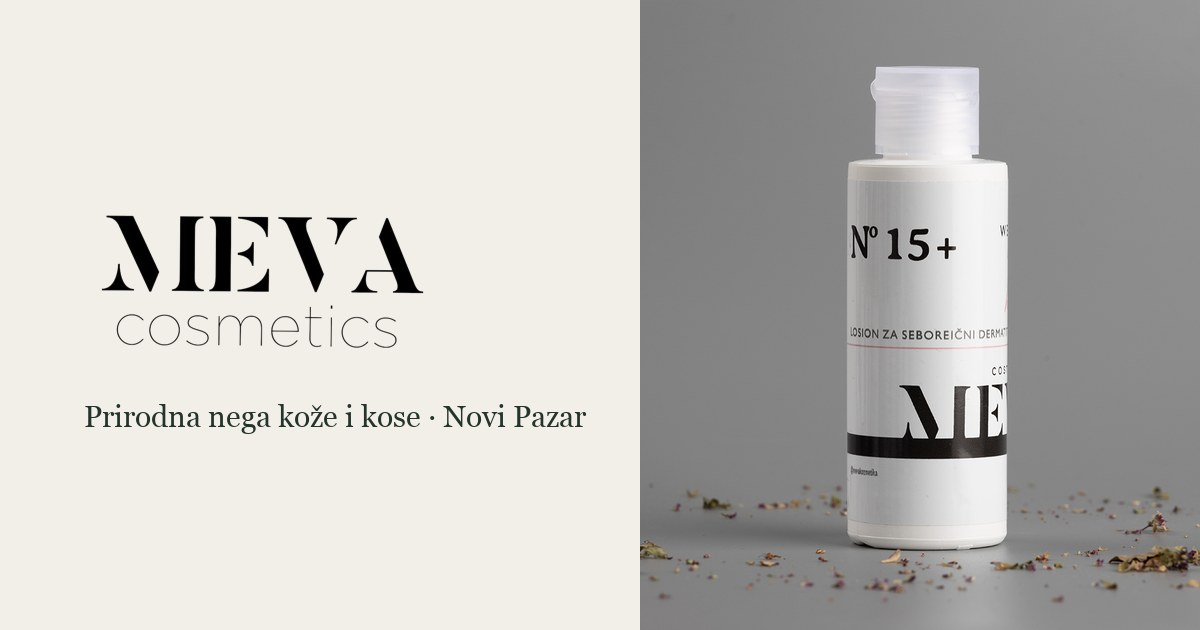
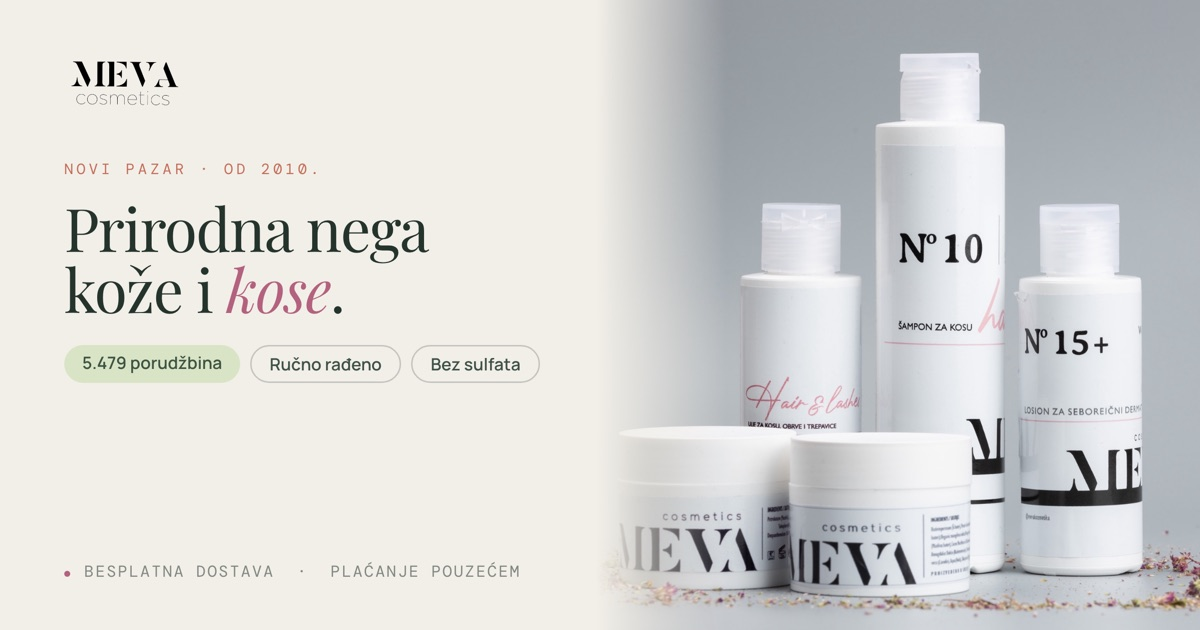
feat(share): Make the card sell the shop
The picture behind a shared link was the wordmark beside a single bottle,
cropped through its own label. It said nothing a stranger would act on.

The card now carries what the shop has to say in the two seconds someone
looks at it: the wordmark, where it is made and since when, the whole set
photographed together, the number of orders behind it, and the two things
people ask before buying -- free delivery and paying the courier. It is
composed in HTML and rendered at twice the size, so the type stays crisp;
tools/og rebuilds it.

diff --git a/tools/og/card.html b/tools/og/card.html
@@ -1,0 +1,50 @@
+<!DOCTYPE html>
+<meta charset="utf-8">
+<link rel="preconnect" href="https://fonts.gstatic.com" crossorigin>
+<link href="https://fonts.googleapis.com/css2?family=Playfair+Display:ital,wght@0,400;0,500;1,400&family=Manrope:wght@400;500;600;700&family=DM+Mono:wght@400;500&display=swap" rel="stylesheet">
+<style>
+  * { margin: 0; padding: 0; box-sizing: border-box }
+  body { width: 1200px; height: 630px; overflow: hidden; background: #f2efe8;
+         font-family: Manrope, sans-serif; color: #24342c; -webkit-font-smoothing: antialiased }
+  .card { display: flex; width: 1200px; height: 630px }
+
+  .left { width: 596px; padding: 56px 48px 48px 64px; display: flex; flex-direction: column; justify-content: space-between }
+  .logo { height: 58px; width: auto }
+  .kicker { font-family: 'DM Mono', monospace; font-size: 15px; letter-spacing: 0.22em;
+            text-transform: uppercase; color: #c56d59; margin-top: 40px }
+  h1 { font-family: 'Playfair Display', serif; font-weight: 400; font-size: 60px; line-height: 1.02;
+       letter-spacing: -0.02em; margin-top: 18px }
+  h1 em { font-style: italic; color: #b3617e }
+  .proof { display: flex; gap: 10px; flex-wrap: wrap; margin-top: 26px }
+  .chip { border-radius: 999px; padding: 9px 18px; font-size: 17px; font-weight: 600; line-height: 1 }
+  .chip.sage { background: #d9e4c6; color: #3d5442 }
+  .chip.line { border: 1.5px solid rgba(36,52,44,.22); color: #3f5248 }
+  .foot { display: flex; align-items: baseline; gap: 14px; font-family: 'DM Mono', monospace;
+          font-size: 16px; letter-spacing: 0.1em; text-transform: uppercase; color: rgba(36,52,44,.55) }
+  .dot { width: 6px; height: 6px; border-radius: 99px; background: #b3617e; display: inline-block }
+
+  .right { width: 604px; position: relative; overflow: hidden; background: #e7e6e4 }
+  .right img { position: absolute; top: 50%; left: 50%; width: 110%; height: auto; transform: translate(-50%, -50%) }
+  /* The photograph is cool grey; a soft wash joins it to the cream panel. */
+  .seam { position: absolute; inset: 0 auto 0 0; width: 130px;
+          background: linear-gradient(90deg, #f2efe8, rgba(242,239,232,0)) }
+</style>
+<div class="card">
+  <div class="left">
+    <div>
+      <img class="logo" src="logo.png" alt="Meva Cosmetics">
+      <p class="kicker">Novi Pazar · od 2010.</p>
+      <h1>Prirodna nega<br>kože i <em>kose</em>.</h1>
+      <div class="proof">
+        <span class="chip sage">5.479 porudžbina</span>
+        <span class="chip line">Ručno rađeno</span>
+        <span class="chip line">Bez sulfata</span>
+      </div>
+    </div>
+    <p class="foot"><span class="dot"></span> Besplatna dostava &nbsp;·&nbsp; Plaćanje pouzećem</p>
+  </div>
+  <div class="right">
+    <img src="set.jpg" alt="">
+    <div class="seam"></div>
+  </div>
+</div>

diff --git a/tools/og/README.md b/tools/og/README.md
@@ -1,0 +1,19 @@
+# The share card
+
+`public/og-image.jpg` is the picture WhatsApp, Viber, Messenger and Facebook
+draw when someone sends a link to the shop. It is a composed card rather than a
+photograph, because a card has to sell in the two seconds someone looks at it:
+the wordmark, what the shop makes, the number of orders behind it, and the two
+things people ask before buying.
+
+Rebuild it after changing `card.html`:
+
+    ./tools/og/build.sh
+
+The size matters. It must be exactly 1200×630 — the share page declares the real
+dimensions and a mismatch collapses the card to the small one-line preview — and
+it should stay well under 300 KB so a phone on a slow connection still gets it.
+
+Messengers cache these hard. After replacing the file, send the link with a
+query string (`https://meva.life/?v=2`) to see the new card, or clear the cache
+through Facebook's sharing debugger.
